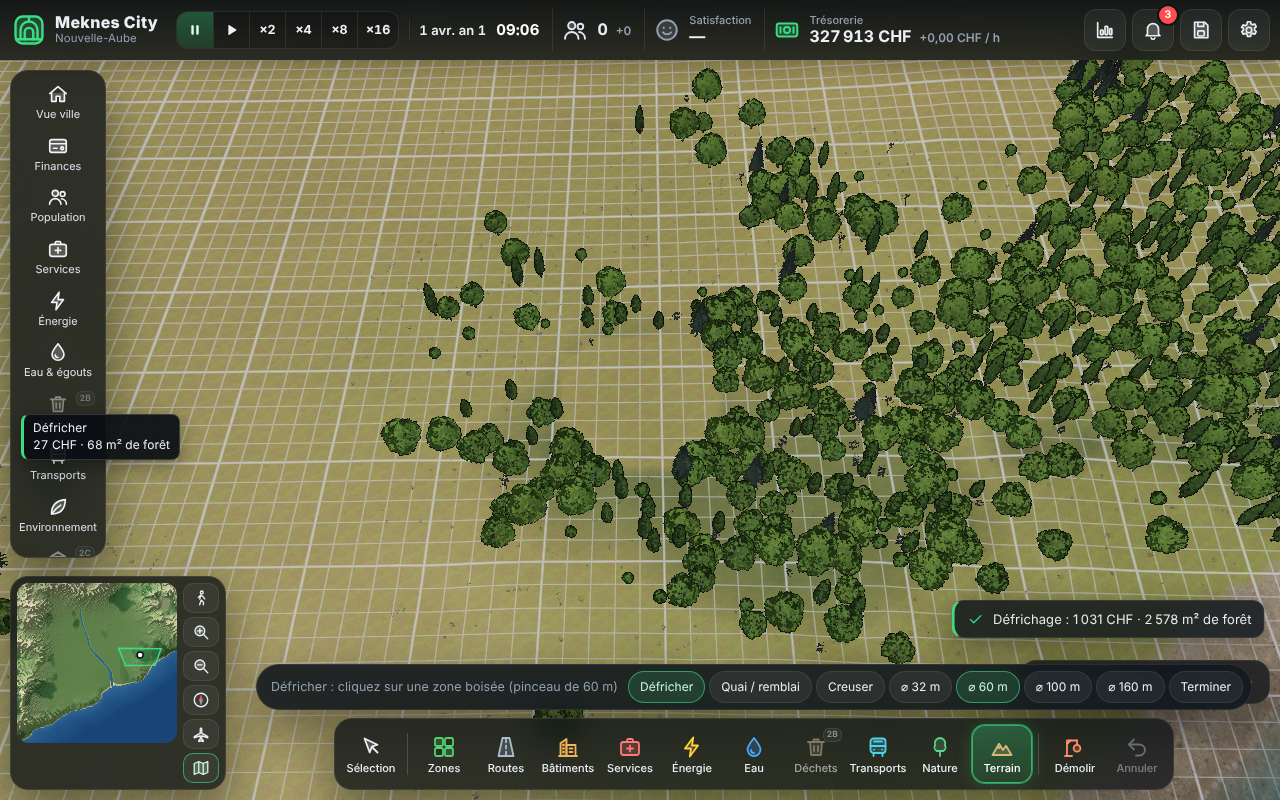
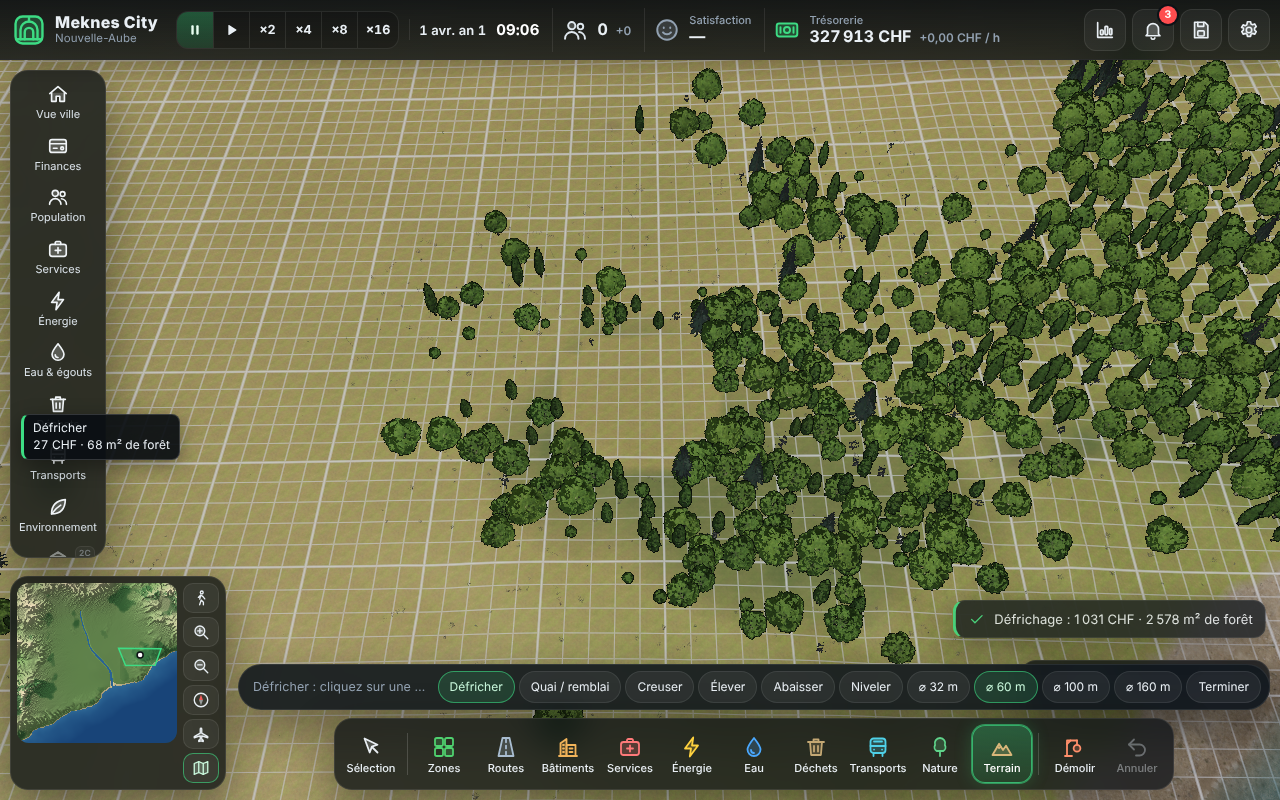
Terrain : pinceaux Élever, Abaisser, Niveler (bord adouci, paliers 1/2/4 m, rayon réglable)
Éditions planifiées et chiffrées par la simulation (terre au m³), refusées sur
routes et bâtiments, rejouées au chargement (hauteur du nivellement fixée à la
pose). L'eau ne s'étend jamais. Tests 479/479 ; e2e et parcours carte verts.

Claude-Session: https://claude.ai/code/session_01KGPYpRcs7aMQMS1nZafg6K

diff --git a/city-builder/src/sim/terrain/edits.ts b/city-builder/src/sim/terrain/edits.ts
@@ -7,6 +7,8 @@
  *    est posé sur la ligne, face à l'eau, dont le pied est approfondi. Sert aussi à combler ou dévier une rivière.
  *  - `dig`   (Creuser) : bassin ou canal rectangulaire droit (largeur `w`), mis en eau au niveau de l'eau voisine
  *    (sinon bassin isolé), berges aplanies et murs de quai là où la rive est sèche.
+ *  - `raise` / `lower` / `flatten` (Élever, Abaisser, Niveler) : pinceau circulaire à bord adouci (cosinus) ;
+ *    l'eau n'est jamais créée ni étendue (un fond relevé au-dessus de l'eau devient terre ferme).
  *
  * Chaque édition est d'abord PLANIFIÉE (`planEdit`, sans rien modifier : coût, échantillons touchés, murs), puis
  * APPLIQUÉE (`commitEdit`). La simulation conserve la liste des éditions (sauvegarde) et les rejoue au chargement
@@ -23,7 +25,12 @@ import { NO_WATER, type SampleRect } from './types';
 export type TerrainEdit =
   | { k: 'clear'; x: number; z: number; r: number }
   | { k: 'quay'; ax: number; az: number; bx: number; bz: number }
-  | { k: 'dig'; ax: number; az: number; bx: number; bz: number; w: number };
+  | { k: 'dig'; ax: number; az: number; bx: number; bz: number; w: number }
+  /** Pinceaux de relief : élever / abaisser de `d` m au centre (bord adouci), niveler à la hauteur `h`. */
+  | { k: 'raise'; x: number; z: number; r: number; d: number }
+  | { k: 'lower'; x: number; z: number; r: number; d: number }
+  /** `h` absent à la pose : hauteur du centre, fixée par la simulation (rejouée telle quelle au chargement). */
+  | { k: 'flatten'; x: number; z: number; r: number; h?: number };
 
 export type TerrainEditKind = TerrainEdit['k'];
 
@@ -39,6 +46,9 @@ export const EDIT_LIMITS = {
   fillDepth: 160,
   minDigWidth: 16,
   maxDigWidth: 96,
+  /** Pas des pinceaux Élever / Abaisser (m). */
+  minStep: 0.5,
+  maxStep: 10,
   /** Nombre maximal d'éditions conservées dans une partie. */
   maxEdits: 4000,
 } as const;
@@ -100,6 +110,8 @@ export function editShapeError(e: unknown): string | null {
   if (o.k === 'clear') return fin(o.x) && fin(o.z) && fin(o.r) ? null : 'Défrichage invalide';
   if (o.k === 'quay') return fin(o.ax) && fin(o.az) && fin(o.bx) && fin(o.bz) ? null : 'Tracé de quai invalide';
   if (o.k === 'dig') return fin(o.ax) && fin(o.az) && fin(o.bx) && fin(o.bz) && fin(o.w) ? null : 'Tracé de bassin invalide';
+  if (o.k === 'raise' || o.k === 'lower') return fin(o.x) && fin(o.z) && fin(o.r) && fin(o.d) ? null : 'Pinceau de relief invalide';
+  if (o.k === 'flatten') return fin(o.x) && fin(o.z) && fin(o.r) && (o.h === undefined || fin(o.h)) ? null : 'Nivellement invalide';
   return 'Type d\'édition du terrain inconnu';
 }
 
@@ -111,6 +123,8 @@ export function normalizeEdit(e: TerrainEdit): TerrainEdit {
     case 'clear': return { k: 'clear', x: r2(e.x), z: r2(e.z), r: r2(clamp(e.r, L.minClearRadius, L.maxClearRadius)) };
     case 'quay': return { k: 'quay', ax: r2(e.ax), az: r2(e.az), bx: r2(e.bx), bz: r2(e.bz) };
     case 'dig': return { k: 'dig', ax: r2(e.ax), az: r2(e.az), bx: r2(e.bx), bz: r2(e.bz), w: r2(clamp(e.w, L.minDigWidth, L.maxDigWidth)) };
+    case 'raise': case 'lower': return { k: e.k, x: r2(e.x), z: r2(e.z), r: r2(clamp(e.r, L.minClearRadius, L.maxClearRadius)), d: r2(clamp(e.d, L.minStep, L.maxStep)) };
+    case 'flatten': return e.h === undefined ? { k: 'flatten', x: r2(e.x), z: r2(e.z), r: r2(clamp(e.r, L.minClearRadius, L.maxClearRadius)) } : { k: 'flatten', x: r2(e.x), z: r2(e.z), r: r2(clamp(e.r, L.minClearRadius, L.maxClearRadius)), h: r2(e.h) };
   }
 }
 
@@ -226,6 +240,42 @@ export function planEdit(t: EditableTerrain, raw: TerrainEdit): PlanOutcome {
     for (let a = 0; a <= 32; a++) outline.push(e.x + Math.cos((a / 32) * Math.PI * 2) * e.r, e.z + Math.sin((a / 32) * Math.PI * 2) * e.r);
     const p = finish(t, e, c, ks, [], 0, outline);
     return p ? { ok: true, plan: p } : bad('Zone hors de la carte');
+  }
+
+  if (e.k === 'raise' || e.k === 'lower' || e.k === 'flatten') {
+    const rect = rectFor(t, e.x - e.r, e.z - e.r, e.x + e.r, e.z + e.r);
+    if (!rect) return bad('Zone hors de la carte');
+    let target = 0;
+    let edit: TerrainEdit = e;
+    if (e.k === 'flatten') {
+      if (e.h === undefined) {
+        const ci = clamp(Math.round((e.x - t.originX) / sp), 0, t.samplesX - 1), cj = clamp(Math.round((e.z - t.originZ) / sp), 0, t.samplesZ - 1);
+        target = Math.round(t.heights[cj * W + ci]! * 100) / 100;
+        edit = { ...e, h: target };
+      } else target = e.h;
+    }
+    const sign = e.k === 'lower' ? -1 : 1;
+    for (let j = rect.j0; j <= rect.j1; j++) for (let i = rect.i0; i <= rect.i1; i++) {
+      const dist = Math.hypot(t.originX + i * sp - e.x, t.originZ + j * sp - e.z);
+      if (dist > e.r) continue;
+      const k = j * W + i;
+      const h0 = t.heights[k]!;
+      // Bord adouci : plein effet au centre, nul au bord (nivellement : plein jusqu'à 60 % du rayon).
+      const u = e.k === 'flatten' ? clamp((dist / e.r - 0.6) / 0.4, 0, 1) : dist / e.r;
+      const w = 0.5 + 0.5 * Math.cos(Math.PI * u);
+      let h = e.k === 'flatten' ? h0 + (target - h0) * w : h0 + sign * (e as { d: number }).d * w;
+      // Jamais sous le fond de la mer : pas plus bas que le niveau de l'eau − 6 m.
+      h = Math.max(h, t.waterLevel - 6);
+      if (Math.abs(h - h0) < 0.01) continue;
+      const ws0 = t.waterSurface[k]!;
+      // L'eau ne s'étend pas : une case sèche abaissée reste sèche ; une case relevée hors de l'eau devient terre.
+      const ws = ws0 !== NO_WATER && ws0 > h + 0.05 ? ws0 : NO_WATER;
+      c.set(k, Math.round(h * 100) / 100, ws);
+    }
+    const outline: number[] = [];
+    for (let a = 0; a <= 32; a++) outline.push(e.x + Math.cos((a / 32) * Math.PI * 2) * e.r, e.z + Math.sin((a / 32) * Math.PI * 2) * e.r);
+    const p = finish(t, edit, c, [], [], 0, outline);
+    return p ? { ok: true, plan: p } : bad(e.k === 'flatten' ? 'Déjà plat ici' : 'Rien à modifier ici');
   }
 
   const L = Math.hypot(e.bx - e.ax, e.bz - e.az);

diff --git a/city-builder/src/client/tools/terrain-tool.ts b/city-builder/src/client/tools/terrain-tool.ts
@@ -12,17 +12,25 @@
 import type { TerrainEdit } from '../../sim/terrain/edits';
 import type { TerrainEditResult } from '../../sim/sim-protocol';
 
-export type TerrainToolMode = 'clear' | 'quay' | 'dig';
+export type TerrainToolMode = 'clear' | 'quay' | 'dig' | 'raise' | 'lower' | 'flatten';
+
+/** Modes « pinceau » : un clic applique sur un disque (pas de point de départ). */
+export const isBrushMode = (m: TerrainToolMode): boolean => m === 'clear' || m === 'raise' || m === 'lower' || m === 'flatten';
 
 export const TERRAIN_MODES: readonly { id: TerrainToolMode; nameFr: string; tip: string }[] = [
   { id: 'clear', nameFr: 'Défricher', tip: 'Défricher : retire les arbres d\'une zone (pinceau, petit coût)' },
   { id: 'quay', nameFr: 'Quai / remblai', tip: 'Quai / remblai : tracez une ligne droite dans l\'eau le long de la rive ; l\'eau côté terre est remblayée jusqu\'à un quai droit. Une ligne en travers d\'une rivière la comble.' },
   { id: 'dig', nameFr: 'Creuser', tip: 'Creuser : bassin ou canal droit (clic départ, clic arrivée), mis en eau au niveau de l\'eau voisine' },
+  { id: 'raise', nameFr: 'Élever', tip: 'Élever : monte le terrain sous le pinceau (bord adouci), un clic par palier' },
+  { id: 'lower', nameFr: 'Abaisser', tip: 'Abaisser : creuse le terrain sous le pinceau (bord adouci) ; l\'eau ne s\'étend pas' },
+  { id: 'flatten', nameFr: 'Niveler', tip: 'Niveler : aplanit le disque à la hauteur de son centre (pour bâtir sur une pente)' },
 ];
 
 /** Rayons du pinceau Défricher et largeurs de canal proposés (m). */
 export const CLEAR_RADII = [16, 30, 50, 80] as const;
 export const DIG_WIDTHS = [16, 24, 40, 64] as const;
+/** Paliers des pinceaux Élever / Abaisser (m par clic). */
+export const RELIEF_STEPS = [1, 2, 4] as const;
 
 export type TerrainValidity = 'pending' | 'ok' | 'error';
 
@@ -54,6 +62,7 @@ export class TerrainTool {
   mode: TerrainToolMode = 'clear';
   radius: number = CLEAR_RADII[1];
   width: number = DIG_WIDTHS[1];
+  step: number = RELIEF_STEPS[1];
   /** Angle magnétique (15°) pour les tracés droits. */
   angleSnap = false;
   private start: { x: number; z: number } | null = null;
@@ -68,6 +77,7 @@ export class TerrainTool {
   setMode(m: TerrainToolMode): void { this.mode = m; this.reset(); }
   setRadius(r: number): void { this.radius = r; this.result = null; this.changed(); }
   setWidth(w: number): void { this.width = w; this.result = null; this.changed(); }
+  setStep(d: number): void { this.step = d; this.result = null; this.changed(); }
   reset(): void { this.start = null; this.result = null; this.changed(); }
   get hasStart(): boolean { return this.start !== null; }
 
@@ -79,7 +89,7 @@ export class TerrainTool {
   /** Extrémité aimantée : angle par pas de 15° (Maj), longueur au mètre. */
   private snap(g: { x: number; z: number }): { x: number; z: number } {
     const s = this.start;
-    if (!s || this.mode === 'clear') return { x: Math.round(g.x * 2) / 2, z: Math.round(g.z * 2) / 2 };
+    if (!s || isBrushMode(this.mode)) return { x: Math.round(g.x * 2) / 2, z: Math.round(g.z * 2) / 2 };
     let dx = g.x - s.x, dz = g.z - s.z;
     let L = Math.hypot(dx, dz);
     if (L < 1e-6) return { ...s };
@@ -95,6 +105,8 @@ export class TerrainTool {
     const h = this.hover;
     if (!h) return null;
     if (this.mode === 'clear') return { k: 'clear', x: h.x, z: h.z, r: this.radius };
+    if (this.mode === 'raise' || this.mode === 'lower') return { k: this.mode, x: h.x, z: h.z, r: this.radius, d: this.step };
+    if (this.mode === 'flatten') return { k: 'flatten', x: h.x, z: h.z, r: this.radius };
     const s = this.start;
     if (!s) return null;
     if (this.mode === 'quay') return { k: 'quay', ax: s.x, az: s.z, bx: h.x, bz: h.z };
@@ -105,13 +117,13 @@ export class TerrainTool {
   preview(): TerrainPreview {
     const e = this.edit();
     const key = e ? JSON.stringify(e) : '';
-    const length = e && e.k !== 'clear' ? Math.hypot(e.bx - e.ax, e.bz - e.az) : 0;
+    const length = e && (e.k === 'quay' || e.k === 'dig') ? Math.hypot(e.bx - e.ax, e.bz - e.az) : 0;
     if (e && this.result?.key !== key) {
       this.result = { key, validity: 'pending', cost: 0, outline: null, message: '' };
       this.validate(e, key);
     }
     const r = e ? this.result : null;
-    const idle = this.mode !== 'clear' && !this.start;
+    const idle = !isBrushMode(this.mode) && !this.start;
     return {
       kind: 'terrain', mode: this.mode, start: this.start, hover: this.hover, radius: this.radius, width: this.width,
       outline: r?.outline ?? null, validity: r?.validity ?? 'ok', cost: r?.cost ?? 0, length,
@@ -147,7 +159,7 @@ export class TerrainTool {
   /** Clic principal : pose le départ, ou applique l'édition. Renvoie vrai si la simulation l'a appliquée. */
   async click(): Promise<boolean> {
     if (this.busy) return false;
-    if (this.mode !== 'clear' && !this.start) {
+    if (!isBrushMode(this.mode) && !this.start) {
       if (!this.hover) return false;
       this.start = { ...this.hover };
       this.result = null;
@@ -181,7 +193,7 @@ export class TerrainTool {
 }
 
 function label(e: TerrainEdit): string {
-  return e.k === 'clear' ? 'Défrichage' : e.k === 'quay' ? 'Quai / remblai' : 'Creusement';
+  return e.k === 'clear' ? 'Défrichage' : e.k === 'quay' ? 'Quai / remblai' : e.k === 'dig' ? 'Creusement' : e.k === 'raise' ? 'Élévation' : e.k === 'lower' ? 'Abaissement' : 'Nivellement';
 }
 
 function describe(e: TerrainEdit, r: TerrainEditResult): string {

diff --git a/city-builder/src/ui/terrain-drawer.ts b/city-builder/src/ui/terrain-drawer.ts
@@ -4,18 +4,21 @@
  * prévus (grisés avec leur phase). Appelé par BuildBar (src/ui/buildbar.ts) ; aucune logique de jeu ici.
  */
 import type { ConstructionTools } from '../client/tools/machine';
-import { CLEAR_RADII, DIG_WIDTHS, TERRAIN_MODES, type TerrainToolMode } from '../client/tools/terrain-tool';
+import { CLEAR_RADII, DIG_WIDTHS, RELIEF_STEPS, TERRAIN_MODES, isBrushMode, type TerrainToolMode } from '../client/tools/terrain-tool';
 import { EDIT_COSTS } from '../sim/terrain/edits';
 import type { ToolController } from '../input/tools';
 import { el, fmt } from './dom';
 import { iconEl } from './icons';
 
-const MODE_ICON: Record<TerrainToolMode, string> = { clear: 'tree', quay: 'anchor', dig: 'lower' };
-const MODE_COLOR: Record<TerrainToolMode, string> = { clear: '#5fd38a', quay: '#9fb3c8', dig: '#4aa8ff' };
+const MODE_ICON: Record<TerrainToolMode, string> = { clear: 'tree', quay: 'anchor', dig: 'lower', raise: 'raise', lower: 'lower', flatten: 'flatten' };
+const MODE_COLOR: Record<TerrainToolMode, string> = { clear: '#5fd38a', quay: '#9fb3c8', dig: '#4aa8ff', raise: '#d9b77a', lower: '#b08d5a', flatten: '#c9c2a8' };
 const MODE_COST: Record<TerrainToolMode, string> = {
   clear: `≈ ${fmt(EDIT_COSTS.clearPerM2 * 1000)} CHF / 1 000 m² de forêt`,
   quay: `${EDIT_COSTS.earthPerM3.toLocaleString('fr-FR')} CHF/m³ + ${fmt(EDIT_COSTS.wallPerM)} CHF/m de quai`,
   dig: `${EDIT_COSTS.earthPerM3.toLocaleString('fr-FR')} CHF/m³ + ${fmt(EDIT_COSTS.wallPerM)} CHF/m de quai`,
+  raise: `${EDIT_COSTS.earthPerM3.toLocaleString('fr-FR')} CHF/m³ de terre`,
+  lower: `${EDIT_COSTS.earthPerM3.toLocaleString('fr-FR')} CHF/m³ de terre`,
+  flatten: `${EDIT_COSTS.earthPerM3.toLocaleString('fr-FR')} CHF/m³ de terre`,
 };
 
 /** Active un outil du tiroir. */
@@ -26,7 +29,7 @@ export function pickTerrainTool(machine: ConstructionTools, tools: ToolControlle
 
 /** Contenu du tiroir : une carte par outil, réglages, puis les outils de relief prévus. */
 export function renderTerrainDrawer(tabs: HTMLElement, body: HTMLElement, machine: ConstructionTools, tools: ToolController, planned: HTMLElement[], close: () => void): void {
-  tabs.append(el('span', { cls: 'drawer-note' }, el('span', { text: 'Défricher, quais droits et remblais, bassins et canaux' })));
+  tabs.append(el('span', { cls: 'drawer-note' }, el('span', { text: 'Défricher, quais et remblais, bassins et canaux, élever, abaisser, niveler' })));
   for (const m of TERRAIN_MODES) {
     const active = machine.tool === 'terraform' && machine.terrain.mode === m.id;
     const b = el('button', { cls: `tile${active ? ' active' : ''}`, attrs: { style: `--ic:${MODE_COLOR[m.id]}`, 'data-terrain': m.id } },
@@ -35,14 +38,15 @@ export function renderTerrainDrawer(tabs: HTMLElement, body: HTMLElement, machin
     b.addEventListener('click', () => { pickTerrainTool(machine, tools, m.id); close(); });
     body.append(b);
   }
-  for (const p of planned) body.append(p);
+  void planned; // outils de relief désormais réels (Élever, Abaisser, Niveler)
 }
 
 /** Boutons de la barre d'options de l'outil Terrain. */
 export function terrainToolActions(machine: ConstructionTools, act: (label: string, tip: string, fn: () => void, active?: boolean) => void): void {
   const t = machine.terrain;
   for (const m of TERRAIN_MODES) act(m.nameFr, m.tip, () => { t.setMode(m.id); machine.refresh(); }, t.mode === m.id);
-  if (t.mode === 'clear') for (const r of CLEAR_RADII) act(`⌀ ${r * 2} m`, `Pinceau de ${r * 2} m de diamètre`, () => t.setRadius(r), t.radius === r);
+  if (isBrushMode(t.mode)) for (const r of CLEAR_RADII) act(`⌀ ${r * 2} m`, `Pinceau de ${r * 2} m de diamètre`, () => t.setRadius(r), t.radius === r);
+  if (t.mode === 'raise' || t.mode === 'lower') for (const d of RELIEF_STEPS) act(`${d} m`, `Palier de ${d} m par clic`, () => t.setStep(d), t.step === d);
   if (t.mode === 'dig') for (const w of DIG_WIDTHS) act(`${w} m`, `Largeur du bassin ou du canal : ${w} m`, () => t.setWidth(w), t.width === w);
 }
 
@@ -50,6 +54,9 @@ export function terrainToolActions(machine: ConstructionTools, act: (label: stri
 export function terrainHint(machine: ConstructionTools): string {
   const t = machine.terrain;
   if (t.mode === 'clear') return `Défricher : cliquez sur une zone boisée (pinceau de ${t.radius * 2} m)`;
+  if (t.mode === 'raise') return `Élever : cliquez pour monter le terrain de ${t.step} m (pinceau de ${t.radius * 2} m, bord adouci)`;
+  if (t.mode === 'lower') return `Abaisser : cliquez pour creuser de ${t.step} m (pinceau de ${t.radius * 2} m, bord adouci)`;
+  if (t.mode === 'flatten') return `Niveler : cliquez au centre de la zone à aplanir (pinceau de ${t.radius * 2} m)`;
   if (t.mode === 'quay') return t.hasStart ? 'Quai : cliquez la fin de la ligne (Maj : angle magnétique) — clic droit : annuler' : 'Quai / remblai : tracez une ligne droite dans l\'eau, parallèle à la rive (ou en travers d\'une rivière pour la combler)';
   return t.hasStart ? `Creuser : cliquez la fin du canal (largeur ${t.width} m) — clic droit : annuler` : `Creuser : clic départ, clic arrivée (bassin ou canal de ${t.width} m)`;
 }

diff --git a/city-builder/src/input/tools.ts b/city-builder/src/input/tools.ts
@@ -23,6 +23,7 @@ import { roadWidth, type PickResult } from '../client/tools/mirror';
 import type { CameraController, PointerToolSink } from './camera';
 import { COLORS, GhostPreview, GridPreview, RoadPreview, SelectionMarker, type ModelSource } from './previews';
 import { TerrainEditPreview } from './terrain-preview';
+import { isBrushMode, type TerrainToolMode } from '../client/tools/terrain-tool';
 
 export { TOOL_PHASE };
 
@@ -172,7 +173,7 @@ export class ToolController implements IToolController, PointerToolSink {
       void d.machine.primary();
     }
     // Quai / Creuser à la souris : départ posé à l'appui (clic-clic ou glisser).
-    if (type !== 'touch' && d.machine.tool === 'terraform' && d.machine.terrain.mode !== 'clear' && !d.machine.terrain.hasStart) {
+    if (type !== 'touch' && d.machine.tool === 'terraform' && !isBrushMode(d.machine.terrain.mode) && !d.machine.terrain.hasStart) {
       this.roadStartedThisGesture = true;
       void d.machine.primary();
     }
@@ -197,7 +198,7 @@ export class ToolController implements IToolController, PointerToolSink {
       if (m.tool === 'road' && m.roadSub === 'draw' && !m.draft.points()) return; // doigt relâché sur le départ
       if (m.tool === 'bulldoze' && !(m.preview.kind === 'bulldoze' && m.preview.target)) return;
       // Quai / Creuser : le départ se pose au relâcher ; l'application se confirme.
-      if (m.tool === 'terraform' && m.terrain.mode !== 'clear' && !m.terrain.hasStart) { void m.primary(); return; }
+      if (m.tool === 'terraform' && !isBrushMode(m.terrain.mode) && !m.terrain.hasStart) { void m.primary(); return; }
       this.pendingTouchConfirm = true;
       this.hooks?.touchConfirm({ label: this.confirmLabel(), canRotate: m.tool === 'building' });
       return;
@@ -405,7 +406,7 @@ export class ToolController implements IToolController, PointerToolSink {
       case 'terrain': {
         this.terrainPrev?.show(p);
         const head = terrainLabel(p.mode);
-        if (p.mode !== 'clear' && !p.start) tag(`${head}\n${p.message}`, 'info');
+        if (!isBrushMode(p.mode) && !p.start) tag(`${head}\n${p.message}`, 'info');
         else if (!p.hover) tag(null, 'info');
         else if (p.validity === 'error') tag(`${head}${p.length ? ` · ${fmt(p.length)} m` : ''}\n${p.message}`, 'error');
         else tag(`${head}${p.length ? ` · ${fmt(p.length)} m` : ''}\n${p.validity === 'ok' ? p.message : 'Calcul du coût…'}`, p.validity === 'ok' ? 'ok' : 'pending');
@@ -443,8 +444,8 @@ export class ToolController implements IToolController, PointerToolSink {
   }
 }
 
-function terrainLabel(m: 'clear' | 'quay' | 'dig'): string {
-  return m === 'clear' ? 'Défricher' : m === 'quay' ? 'Quai / remblai' : 'Creuser';
+function terrainLabel(m: TerrainToolMode): string {
+  return m === 'clear' ? 'Défricher' : m === 'quay' ? 'Quai / remblai' : m === 'dig' ? 'Creuser' : m === 'raise' ? 'Élever' : m === 'lower' ? 'Abaisser' : 'Niveler';
 }
 
 function samePick(a: PickResult, b: PickResult): boolean {

diff --git a/city-builder/tests/terrain/editions.test.ts b/city-builder/tests/terrain/editions.test.ts
@@ -238,3 +238,32 @@ test('plan pur : planEdit ne modifie rien', () => {
   assert.deepEqual(t.waterSurface, ws);
   assert.deepEqual(t.forest, f);
 });
+
+test('pinceaux de relief : élever, abaisser, niveler (bord adouci, coût, sauvegarde rejouée à l\'identique)', () => {
+  const s = seaSim();
+  const cmd = (edit: TerrainEdit, dryRun = false): { ok: boolean; data?: { cost: number; volume: number } } =>
+    handleCommand(s, { kind: 'cmd', reqId: 1, name: 'terrainEdit', args: { edit, dryRun } }).result as { ok: boolean; data?: { cost: number; volume: number } };
+  const t = s.terrain!;
+  const at = (x: number, z: number): number => { const i = Math.round((x - t.originX) / t.spacing), j = Math.round((z - t.originZ) / t.spacing); return t.heights[j * t.samplesX + i]!; };
+  // Zone sèche loin de la mer : on cherche un point au-dessus de l'eau.
+  let px = 0, pz = 0;
+  for (let a = 0; a < 64 && at(px, pz) <= t.waterLevel + 2; a++) { px = Math.cos(a) * 60 * (1 + (a >> 3)); pz = Math.sin(a) * 60 * (1 + (a >> 3)); }
+  const h0 = at(px, pz), edge0 = at(px + 40, pz);
+  const dry = cmd({ k: 'raise', x: px, z: pz, r: 30, d: 4 }, true);
+  assert.ok(dry.ok && dry.data!.cost > 0 && dry.data!.volume > 0, 'aperçu chiffré');
+  assert.equal(at(px, pz), h0, 'aperçu sans effet');
+  assert.ok(cmd({ k: 'raise', x: px, z: pz, r: 30, d: 4 }).ok);
+  assert.ok(Math.abs(at(px, pz) - (h0 + 4)) < 0.05, `centre +4 m (${h0} -> ${at(px, pz)})`);
+  assert.ok(Math.abs(at(px + 40, pz) - edge0) < 0.01, 'hors du pinceau : inchangé');
+  assert.ok(cmd({ k: 'lower', x: px, z: pz, r: 30, d: 2 }).ok);
+  assert.ok(Math.abs(at(px, pz) - (h0 + 2)) < 0.05, 'centre −2 m');
+  assert.ok(cmd({ k: 'flatten', x: px + 16, z: pz, r: 24 }).ok);
+  const target = at(px + 16, pz);
+  assert.ok(Math.abs(at(px + 8, pz) - target) < 0.05, 'zone nivelée à la hauteur du centre');
+  const save = JSON.parse(JSON.stringify(s.toSave()));
+  const flat = (save.terrainEdits as TerrainEdit[]).find((e) => e.k === 'flatten') as { h?: number } | undefined;
+  assert.ok(flat && typeof flat.h === 'number', 'hauteur du nivellement fixée dans la sauvegarde');
+  const s2 = new Simulation(); s2.setCatalog(townCatalog());
+  assert.equal(s2.fromSave(save), null);
+  assert.deepEqual(Array.from(s2.terrain!.heights), Array.from(t.heights), 'terrain identique après rechargement');
+});

diff --git a/city-builder/src/input/terrain-preview.ts b/city-builder/src/input/terrain-preview.ts
@@ -33,7 +33,7 @@ export class TerrainEditPreview {
     this.ring.setColor(c);
     this.zone.setColor(c);
     const h = p.hover;
-    if (p.mode === 'clear') {
+    if (p.mode === 'clear' || p.mode === 'raise' || p.mode === 'lower' || p.mode === 'flatten') {
       this.zone.hide();
       if (h) this.ring.showPoint(h.x, h.z, p.radius); else this.ring.hide();
       return;
